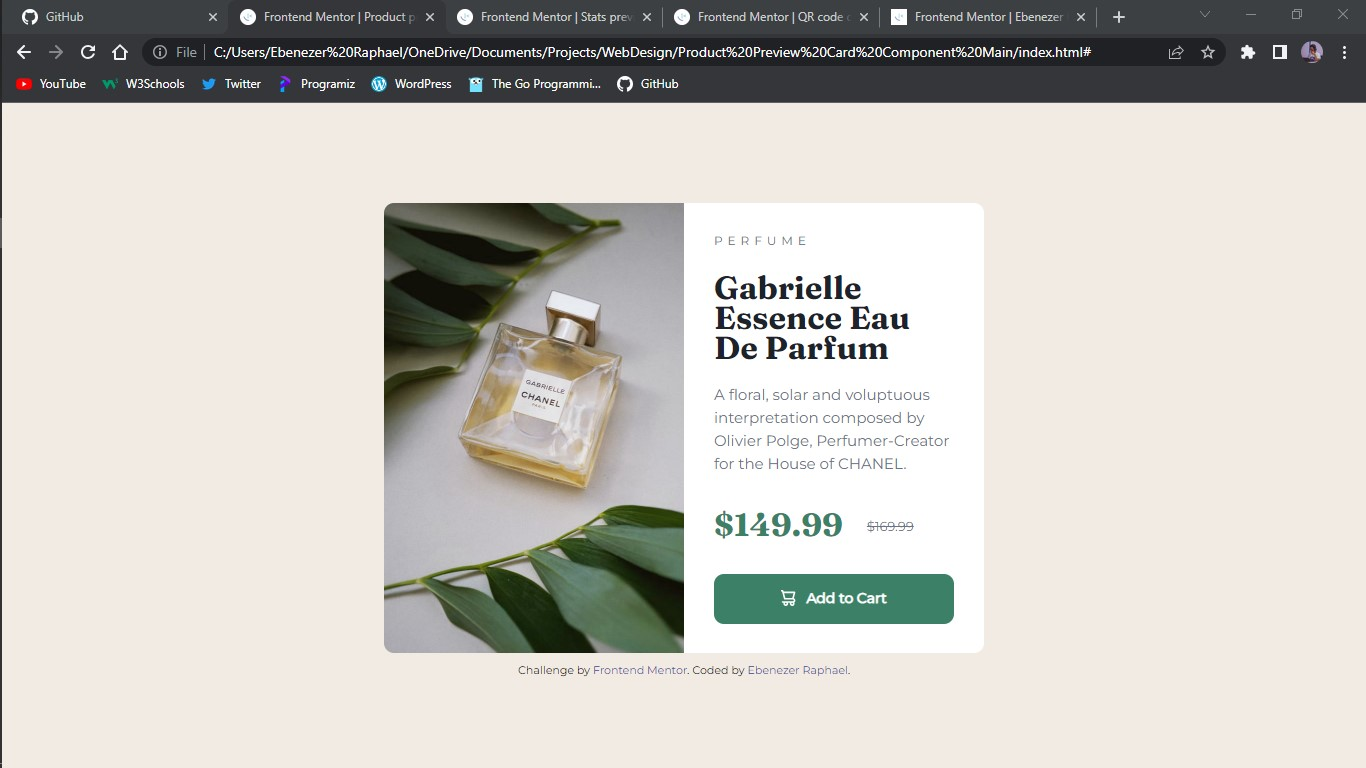
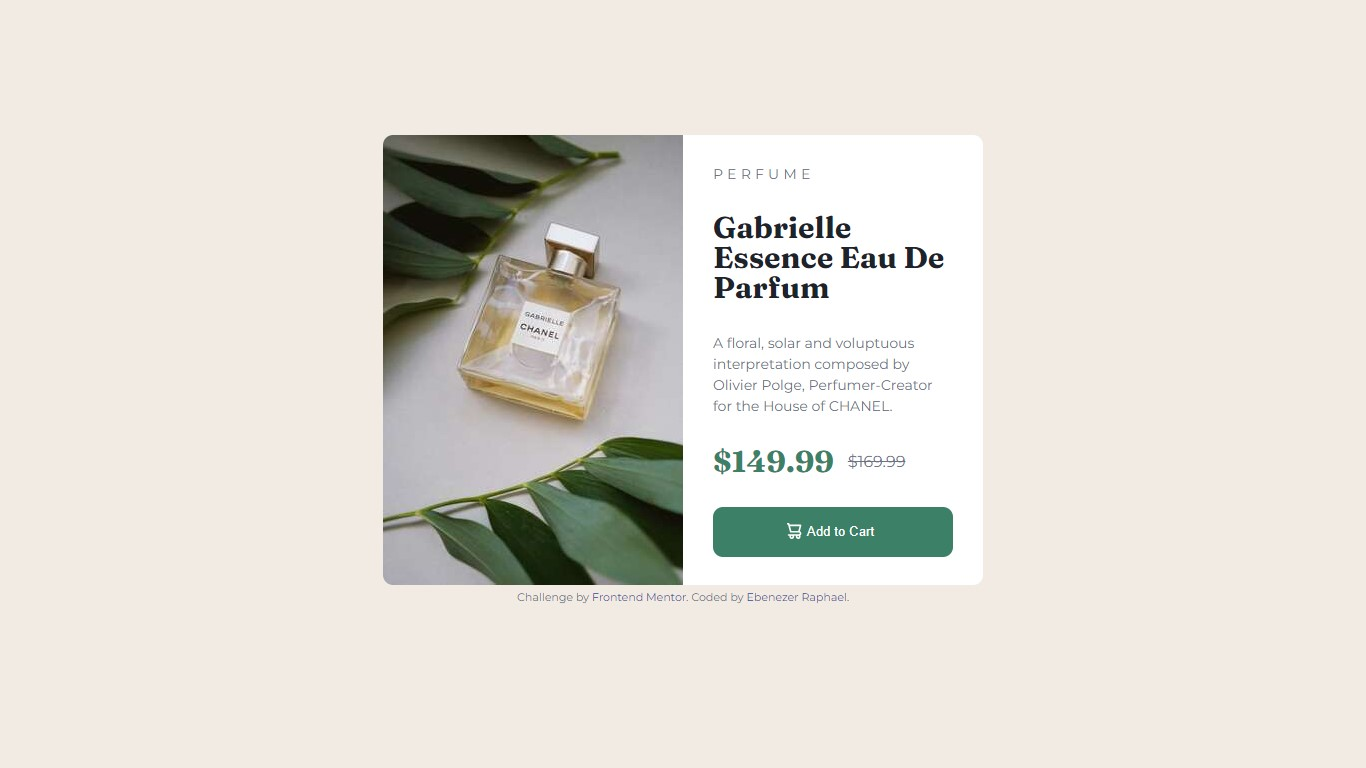
Commit

diff --git a/styles.css b/styles.css
@@ -1,3 +1,11 @@
+@font-face {
+    font-family: "Fraunces";
+    src: url(fonts/Fraunces.ttf);
+}
+@font-face {
+    font-family: "Montserrat";
+    src: url(fonts/Montserrat.ttf);
+}
 .attribution {
     font-size: 11px;
     text-align: center;
@@ -6,91 +14,108 @@
     color: hsl(228, 45%, 44%);
     text-decoration: none;
 }
-@font-face {
-    font-family: "Fraunces";
-    src: url('fonts/Fraunces.ttf');
-}
-@font-face {
-    font-family: "Montserrat";
-    src: url('fonts/Montserrat.ttf');
-}
 body {
     background-color: hsl(30, 38%, 92%);
     font-family: "Montserrat";
+    font-weight: 500;
     color: hsl(228, 12%, 48%);
 }
-.main {
+main {
+    margin: 10% auto 5px;
     background-color: hsl(0, 0%, 100%);
     border-radius: 10px;
     height: 450px;
+}
+.flex-container {
+    display: flex;
+    flex-direction: row;
     width: 600px;
-    margin: 100px auto auto;
 }
-.prices {
-    margin: 30px 0px;
+@media screen and (max-width: 700px) {
+    main {
+        height: 600px;
+    }
+    .flex-container {
+        display: flex;
+        flex-direction: column;
+        width: 343px;
+    }
 }
-.new_price {
-    font-weight: 700;
-    color: hsl(158, 36%, 37%);
-    font-family: 'Fraunces';
-    font-size: 32px;
-}
-.old_price {
-    font-weight: 500;
-    font-family: 'Montserrat';
-    font-size: 13px;
-    vertical-align: 5px;
-    text-decoration: line-through;
-    margin: 0px 20px;
-}
-.preview_header {
-    font-size: 12px;
-    letter-spacing: 5px;
-}
-.preview {
-    font-family: 'Montserrat';
-    background-color: hsl(0, 0%, 100%);
-    border-radius: 0px 10px 10px 0px;
-    width: 240px;
-    height: 390px;
-    padding: 30px;
-    float: left;
-}
-.product_name {
-    color: hsl(212, 21%, 14%);
-    font-weight: 700;
-    font-family: 'Fraunces';
-    font-size: 32px;
-    width: 200px;
-    line-height: 30px;
-    margin: 25px 0px 0px;
-}
-.product_description {
-    font-weight: 500;
-    margin: 20px 0px 20px 0px;
-    font-family: 'Montserrat';
-    font-size: 15px;
-    line-height: 23px;
-}
-img {
-    float: left;
+.product-image {
     border-radius: 10px 0px 0px 10px;
 }
+@media screen and (max-width: 700px) {
+    .product-image {
+        border-radius: 10px 10px 0px 0px;
+    }
+}
+.product-preview {
+    border-radius: 0px 10px 10px 0px;
+    height: 450px;
+    padding: 30px;
+    box-sizing: border-box;
+}
+@media screen and (max-width: 700px) {
+    .product-preview {
+        height: 360px;
+        border-radius: 0px 0px 10px 10px;
+    }
+}
+.product-name, .new-price {
+    font-family: "Fraunces";
+    font-weight: 700;
+    font-size: 30px;
+    line-height: 1em;
+}
+.product-name {
+    color: hsl(212, 21%, 14%);
+}
+.preview-header {
+    font-size: 14px;
+    letter-spacing: 0.3em;
+}
+.product-name, .product-description {
+    margin: 30px 0px;
+}
+.product-description {
+    font-size: 14px;
+    line-height: 1.5em;
+}
+.prices {
+    display: inline-block;
+}
+.new-price {
+    color: hsl(158, 36%, 37%);;
+}
+.old-price {
+    text-decoration: line-through;
+    vertical-align: 5px;
+    margin: 0px 10px;
+}
 button {
-    color: hsl(0, 0%, 100%);
-    border: 0px;
-    background-color: hsl(158, 36%, 37%);
+    border: none;
     border-radius: 10px;
-    height: 50px;
-    width: 240px;
+    height:50px;
+    width: 100%;
+    margin: 30px 0px;
+    background-color: hsl(158, 36%, 37%);
+    color: white;
+}
+.add-to-cart {
+    margin: 5px;
+    vertical-align: 3px;
+}
+@media screen and (max-width: 700px) {
+    .product-name, .product-description {
+        margin: 15px 0px;
+    }
+    button {
+        margin: 15px 0px;
+    }
 }
 button:hover {
-    background-color: #1a4031;
+    background-color: #18412f;
 }
-.Add_to_Cart {
-    font-family: "Montserrat";
-    font-weight: 700;
-    font-size: 14px;
-    margin-left: 10px;
-    vertical-align: 3px
+button:active {
+    background-color: #18412f;
 }

diff --git a/index.html b/index.html
@@ -8,24 +8,30 @@
   <link rel="stylesheet" href="styles.css">
 </head>
 <body>
-  <div class="main">
-    <img id="img" src="images/image-product-desktop.jpg" width="300px" height="450px" alt="image-product">
-    <div class="preview">
-      <div class="preview_header">PERFUME</div>
-      <div class="product_name">Gabrielle Essence Eau De Parfum</div>
-      <div class="product_description">A floral, solar and voluptuous interpretation composed by Olivier Polge, 
-        Perfumer-Creator for the House of CHANEL.
-      </div>
-      <div class="prices">
-        <span class="new_price">$149.99</span>
-        <span class="old_price">$169.99</span>
-      </div>
-      <div><button><svg width="15" height="16" xmlns="http://www.w3.org/2000/svg"><path d="M14.383 10.388a2.397 2.397 0 0 0-1.518-2.222l1.494-5.593a.8.8 0 0 0-.144-.695.8.8 0 0 0-.631-.28H2.637L2.373.591A.8.8 0 0 0 1.598 0H0v1.598h.983l1.982 7.4a.8.8 0 0 0 .799.59h8.222a.8.8 0 0 1 0 1.599H1.598a.8.8 0 1 0 0 1.598h.943a2.397 2.397 0 1 0 4.507 0h1.885a2.397 2.397 0 1 0 4.331-.376 2.397 2.397 0 0 0 1.12-2.021ZM11.26 7.99H4.395L3.068 3.196h9.477L11.26 7.991Zm-6.465 6.392a.8.8 0 1 1 0-1.598.8.8 0 0 1 0 1.598Zm6.393 0a.8.8 0 1 1 0-1.598.8.8 0 0 1 0 1.598Z" fill="#FFF"/></svg><span class="Add_to_Cart">Add to Cart</span></button></div>
-    </div>
-  </div>
+  <main class="flex-container">
+        <div>
+            <picture>
+            <source srcset="images/image-product-mobile.jpg" media="(max-width: 700px)">
+            <source srcset="images/image-product-desktop.jpg">
+            <img class="product-image" src="images/image-product-desktop.jpg" alt="product-image">
+            </picture>
+        </div>
+        <div class="product-preview">
+          <div class="preview-header">PERFUME</div>
+          <div class="product-name">Gabrielle Essence Eau De Parfum</div>
+          <div class="product-description">A floral, solar and voluptuous interpretation composed by Olivier Polge, 
+            Perfumer-Creator for the House of CHANEL.
+          </div>
+          <div class="prices">
+            <span class="new-price">$149.99</span>
+            <span class="old-price">$169.99</span>
+          </div>
+          <div><button><svg width="15" height="16" xmlns="http://www.w3.org/2000/svg"><path d="M14.383 10.388a2.397 2.397 0 0 0-1.518-2.222l1.494-5.593a.8.8 0 0 0-.144-.695.8.8 0 0 0-.631-.28H2.637L2.373.591A.8.8 0 0 0 1.598 0H0v1.598h.983l1.982 7.4a.8.8 0 0 0 .799.59h8.222a.8.8 0 0 1 0 1.599H1.598a.8.8 0 1 0 0 1.598h.943a2.397 2.397 0 1 0 4.507 0h1.885a2.397 2.397 0 1 0 4.331-.376 2.397 2.397 0 0 0 1.12-2.021ZM11.26 7.99H4.395L3.068 3.196h9.477L11.26 7.991Zm-6.465 6.392a.8.8 0 1 1 0-1.598.8.8 0 0 1 0 1.598Zm6.393 0a.8.8 0 1 1 0-1.598.8.8 0 0 1 0 1.598Z" fill="#FFF"/></svg><span class="add-to-cart">Add to Cart</span></button></div>
+        </div>
+  </main>
   <div class="attribution">
     Challenge by <a href="https://www.frontendmentor.io?ref=challenge" target="_blank">Frontend Mentor</a>. 
-    Coded by <a href="https://www.frontendmentor.io/profile/Ebenezer-Raphael" target="_blank">Ebenezer Raphael</a>.
+    Coded by <a href="https://www.frontendmentor.io/profile/ebenezerraph" target="_blank">Ebenezer Raphael</a>.
   </div>
 </body>
 </html>

diff --git a/README.md b/README.md
@@ -11,7 +11,6 @@ This is a solution to the [Product preview card component challenge on Frontend 
 - [My process](#my-process)
   - [Built with](#built-with)
   - [What I learned](#what-i-learned)
-  - [Continued development](#continued-development)
   - [Useful resources](#useful-resources)
 - [Author](#author)
 
@@ -44,11 +43,7 @@ Users should be able to:
 
 ### What I learned
 
-I learnt how to make the design responsive
-
-### Continued development
-
-I want to be able to optimize my code. 
+I was finally able to make the design responsive
 
 ### Useful resources
 
